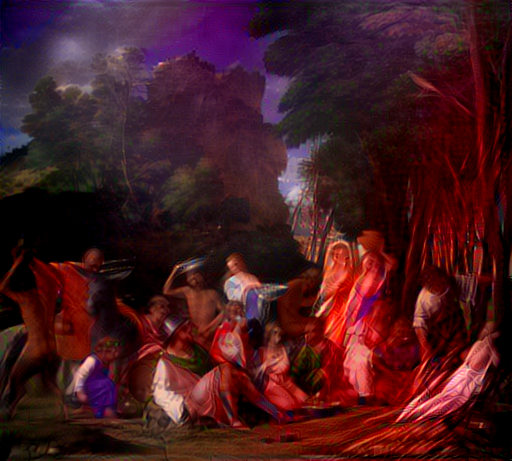
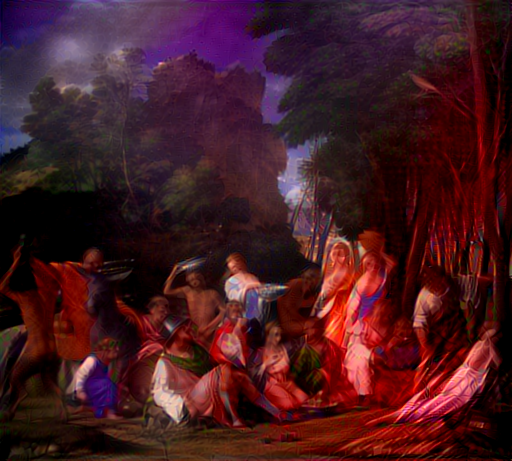
changing style_weight in neural-network-style for Titian and Bellini's painting

diff --git a/README.md b/README.md
@@ -150,7 +150,7 @@ To decrease the effect above of the red color on the content image, you might us
 <img src="https://raw.githubusercontent.com/je-nunez/examples_neural-style/master/examples/Mix_Titian_Giovanni_Bellini_The_Feast_of_the_Gods_HEP_Five_Ferris_Wheel_with_a_content_weight/Mix_Titian_Giovanni_Bellini_The_Feast_of_the_Gods_HEP_Five_Ferris_Wheel_with_a_content_weight.png" height="500px">
 </p>
 
-or you might decrease the relative weight of the style image for the neural network with the option `-style_weight W` (the implicit, current default for `-style_weight` is 100). E.g., for `-style_weight 7.69230`, it results:
+or you might decrease the relative weight of the style image for the neural network with the option `-style_weight W` (the implicit, current default for `-style_weight` is 100). E.g., for `-style_weight 6.25`, it results:
 
 <p align="center">
 <img src="https://raw.githubusercontent.com/je-nunez/examples_neural-style/master/examples/Mix_Titian_Giovanni_Bellini_The_Feast_of_the_Gods_HEP_Five_Ferris_Wheel_with_a_style_weight/Mix_Titian_Giovanni_Bellini_The_Feast_of_the_Gods_HEP_Five_Ferris_Wheel_with_a_style_weight.png" height="500px">
